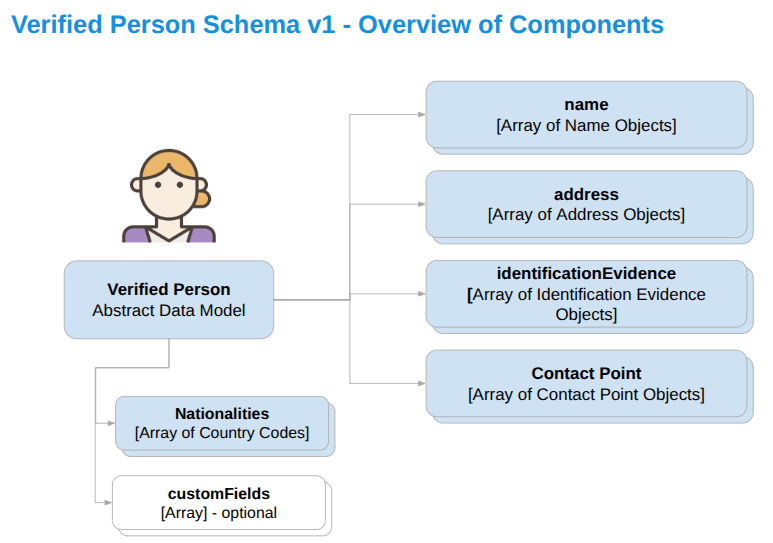
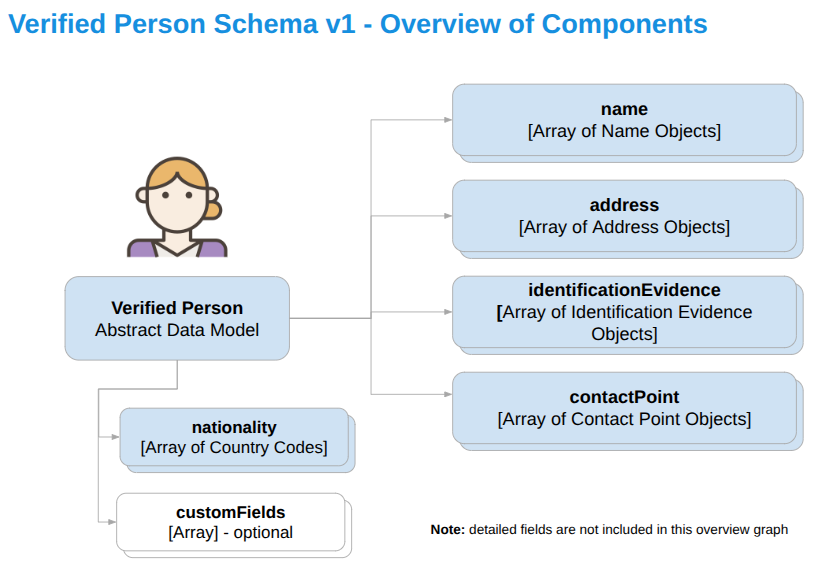
updates for 1.0 version of credential schemas

diff --git a/spec/verified-person.md b/spec/verified-person.md
@@ -1,6 +1,6 @@
 ### Verified Person Schema
 
-July 2025 - **Specification Status:** Working Group draft
+August 2025 - **Specification Status:** Working Group Approved
 
 JSON Schema: [Verified Person Schema](https://github.com/decentralized-identity/credential-schemas/tree/main/dif-draft-schemas/verified-person-schema)
 
@@ -12,12 +12,16 @@ The purpose of this credential schema specification is to define the fields requ
 Use cases: Mainly for financial services, but can also be used in telecommunications, and any sector requiring identity verification for customer onboarding, transaction verification, and regulatory compliance, enabling streamlined and standardized data handling for KYC procedures.
 
 ::: note Verified Person Note
-  The schema excludes assurance levels and the verification process by which the data was obtained.
+  The schema excludes assurance levels and the verification process by which the data was obtained. In addition "trust frameworks" through which the trustworthiness of issuers can be determined are outside the scope of this specification.
 :::
 
 For issuance date and expiration date fields please refer to the verifiable credentials data model [version 1.1](https://www.w3.org/TR/vc-data-model/) or [version 2.0](https://www.w3.org/TR/vc-data-model-2.0/) (we assume the usage of these fields).
 
 #### Verified Person Abstract Data Model
+
+::: note verified person note
+  \* = Required field
+:::
 
 | Property                       | Description                                                                                                                                                                                         | Type & Format      | Definition / Comments                                                                                                               |
 | :----------------------------- | :-------------------------------------------------------------------------------------------------------------------------------------------------------------------------------------------------- | :----------------- | ----------------------------------------------------------------------------------------------------------------------------------- |
@@ -33,12 +37,14 @@ For issuance date and expiration date fields please refer to the verifiable cred
 | identificationEvidence (array) | Evidence of identifiers of the credential subject including government identifiers.                                                                                                                 | Array              | Structured into an array of objects (see the definition of the [Identification Evidence object](#identification-evidence-object) ). |
 | customField (array)            | These are custom fields that can be issued by the credential issuer for any other field not accounted in the main schema. This is a free form array which can be utilized by the credential issuer. | object             | The suggested usage is an array of objects containing "propertyName" and "propertyValue" on each entry.                             |
 
-::: note verified person note
-  \* = Required field
-:::
+
 
 #### Name Object
 The Name Object records the name(s) of the credential subject. The type of name is indicated by the nameType property. There must be at least one entry corresponding to the user's legal name type "legalName". 
+
+::: note name object note
+  \* = Required field
+:::
 
 | Property        | Description                                                                                                                                                                                                                                                                                                                                                 | Type  & Format       | Definition / Comments                          |
 | :-------------- | :---------------------------------------------------------------------------------------------------------------------------------------------------------------------------------------------------------------------------------------------------------------------------------------------------------------------------------------------------------- | :------------------- | :--------------------------------------------- |
@@ -52,13 +58,14 @@ The Name Object records the name(s) of the credential subject. The type of name 
 | startDate       | Start date at which this name was first used. This could be used to keep a history of various names used by the credential subject.                                                                                                                                                                                                                         | string / date-time   | https://schema.org/startDate                   |
 | endDate         | End date at which this name was used. This could be used to keep a history of various names used by the credential subject.                                                                                                                                                                                                                                 | string / date-time   | https://schema.org/endDate                     |
 
-::: note name object note
-  \* = Required field
-:::
 
 #### Identification Evidence Object
 The Identification Evidence Object records the identifier(s) of the credential subject. The type of identifier is indicated by the identifierType property. The object can record both government and non-government identifiers, however there must be at least one entry corresponding to the credential subject's government identifier, this could be any form of government issued identifier such as passport, national id document, tax id, drivers license, or social service number (ssn, social issurance number, or health service id).
 The entry for the government identifier must be the unique government id or national identifier of the credential subject issued by that jurisdiction.
+
+::: note identification evidence object note
+  \* = Required field
+:::
 
 | Property               | Description                                                                                                                                                                                                                                                                                                                                                                  | Type & Format        | Definition / Comments                          |
 | :--------------------- | :--------------------------------------------------------------------------------------------------------------------------------------------------------------------------------------------------------------------------------------------------------------------------------------------------------------------------------------------------------------------------- | :------------------- | :--------------------------------------------- |
@@ -68,9 +75,6 @@ The entry for the government identifier must be the unique government id or nati
 | country                | This is the country of the entity that issues the identifying document. It is a string representing the country in ISO 3166-1 alpha-3 codes (e.g. FRA, USA, CRC).                                                                                                                                                                                                            | string               | https://schema.org/addressCountry              |
 | documentExpirationDate | Date in which the document expires or is subject to renewal                                                                                                                                                                                                                                                                                                                  | string / date-time   | https://schema.org/expires                     |
 
-::: note identification evidence object note
-  \* = Required field
-:::
 
 #### Address Object
 
@@ -78,6 +82,9 @@ The Address Object records the address(es) of the credential subject.The type of
 The object can record a variety of address types, however there must be at least one object entry corresponding to the credential subject's place of birth (identified by the type "placeOfBirth"), the address defines the place where the credential subject is born. For the place of birth, not all fields in the object are required however the country code is mandatory.
 This object is an extension of [schema.org/PostalAddress](https://schema.org/PostalAddress), with additional fields for unstructured addresses and start and end dates in order to accommodate for a historical address record.
 
+::: note address object note
+  \* = Required field
+:::
 
 | Property            | Description                                                                                                                               | Type & Format        | Definition / Comments                          |
 | :------------------ | :---------------------------------------------------------------------------------------------------------------------------------------- | :------------------- | :--------------------------------------------- |
@@ -92,15 +99,15 @@ This object is an extension of [schema.org/PostalAddress](https://schema.org/Pos
 | startDate           | Start date at which this address was first used. This could be used to keep a history of various addresses used by the credential subject | string / date-time   | https://schema.org/startDate                   |
 | endDate             | End date at which this address was last used. This could be used to keep a history of various addresses used by the credential subject    | string / date-time   | https://schema.org/endDate                     |
 
-::: note address object note
-  \* = Required field
-:::
-
 #### Contact Point Object
 The Contact Point Object records the various contact methods of the credential subject (email, phone, others). The type of contact is indicated by the type property. This object is leveraging [schema.org/ContactPoint](https://schema.org/ContactPoint) so any fields in that specification are valid; for simplicity however we are only referencing a subset of the fields in that specification relevant for KYC use cases.
 
 ::: note contact point verification
   It is assumed that the credential issuer will have verified that the credential subject is in possession of the contact point(s), the details of how this verification is done are outside the scope of this specification.
+:::
+
+::: note contact point object note
+  \* = Required field
 :::
 
 | Property   | Description                                                                                                                                                                                                                                    | Type  & Format       | Definition / Comments          |
@@ -111,9 +118,7 @@ The Contact Point Object records the various contact methods of the credential s
 | url        | URL, used for contact points that refer to websites and similar.                                                                                                                                                      | URL                  | https://schema.org/url         |
 | identifier | Identifier used for the contact method (for contact points that are not emails, phone numbers, or URLs).                                                                                                                                       | string               | https://schema.org/identifier  |
 
-::: note contact point object note
-  \* = Required field
-:::
+
 
 #### Mapping of the Verified Person fields to various standards
 

diff --git a/spec/proof-of-age.md b/spec/proof-of-age.md
@@ -1,6 +1,6 @@
 ### Proof of Age Schema
 
-April 2025 - **Specification Status:** editors draft WORK IN PROGRESS
+August 2025 - **Specification Status:** Working Group Approved
 
 #### Purpose: 
 The objective is to generate a general purpose age schema which should allow for both “age estimation” (several assurance methods to be used) as well as “age verification”.
@@ -13,11 +13,17 @@ The objective is to generate a general purpose age schema which should allow for
   - Police clearance / Criminal background or similar use cases in child care contexts
 :::
 
+![proof of age fields overview diagram](images/proof-of-age.png)
+
 #### Proof of Age Abstract Data Model
 
 Main schema for expressing an individual's age. It is composed of a proof of age method field, details on the verification method used, and an age statement field which allows for various schemas for expressing an individual's age. It also includes fields for correctness and level of confidence which are relevant for the age estimation use cases.
 
 For issuance date and expiration date fields please refer to the verifiable credentials data model [version 1.1](https://www.w3.org/TR/vc-data-model/) or [version 2.0](https://www.w3.org/TR/vc-data-model-2.0/) (we assume the usage of these fields).
+
+::: note Proof of Age Required Fields Note
+  \* = Required field
+:::
 
 | Property                 | Description                                                                                                                                                                                  | Type & Format        | Definition / Comments                                                                                          |
 | ------------------------ | -------------------------------------------------------------------------------------------------------------------------------------------------------------------------------------------- | -------------------- | -------------------------------------------------------------------------------------------------------------- |
@@ -28,11 +34,6 @@ For issuance date and expiration date fields please refer to the verifiable cred
 | probabilityOfCorrectness | Probability of correctness of the estimation. Number value between 0 and 100.                                                                                                                | number               |                                                                                                                |
 | levelOfConfidence        | Level of confidence with which the verification has been completed allowed values: "asserted", "basic" (90%+), "standard" (99%+), "enhanced" (99.9%+) , and "strict" (99.99%+).              | string / enumeration | Refer to  [IS0/IEC 27566 – Age assurance systems](https://www.iso.org/standard/88143.html) - for more details. |
 
-
-::: note Key-on-required-or-optional-for-proof-of-age
-  \* = Required field
-:::
-
 #### Age Date Object
 
 Object composed of the following fields related to the invidual's birth date: Year, Month,and Day. The schema can represent an age statement in any of the following ways:
@@ -41,6 +42,9 @@ Object composed of the following fields related to the invidual's birth date: Ye
 - Year and month (date value is null) e.g. Sept-1952
 - Full date e.g: 25-Sept-1952
 
+::: note Proof of Age Date Object Required Fields
+  \* = Required field
+:::
 
 | Property | Description                                                                                                          | Type & Format     | Definition / Comments                          |
 | -------- | -------------------------------------------------------------------------------------------------------------------- | ----------------- | ---------------------------------------------- |
@@ -51,7 +55,11 @@ Object composed of the following fields related to the invidual's birth date: Ye
 
 #### Boolean Age Statement Object
 
-Object used to express the user is over a given age threshold.
+Object used to express the user is over or under a given age threshold. For example: "over 18", or "under 21". 
+
+::: note Proof of Age Statement Object Required Fields
+  \* = Required field
+:::
 
 | Property        | Description                                                                                                                                                                                            | Type & Format     | Definition / Comments                          |
 | --------------- | ------------------------------------------------------------------------------------------------------------------------------------------------------------------------------------------------------ | ----------------- | ---------------------------------------------- |
@@ -61,8 +69,12 @@ Object used to express the user is over a given age threshold.
 
 #### Age Range Statement Object
 
-Object used to indicate a user is in a given in age range for example: between "18 and 25 years of age", or between "40 and 65 years of age".
+Object used to indicate a user is in a given in age range for example: between "18 and 25 years of age", or between "40 and 65 years of age". The age values in the range are inclusive of the minimumAge and maximumAge values.
  
+ ::: note Proof of Age Range Statement Required Fields
+  \* = Required field
+:::
+
 | Property   | Description                                      | Type & Format     | Definition / Comments                          |
 | ---------- | ------------------------------------------------ | ----------------- | ---------------------------------------------- |
 | type \*    | type of object schema, expected value "AgeRange" | string / constant | https://www.w3.org/TR/vc-data-model-2.0/#types |
@@ -77,7 +89,8 @@ Object used to indicate a user is in a given in age range for example: between "
 
 #### Sample implementations of this schema standard
 
-- Privado ID (JSON-LD): pending
+- DIF: [Proof of Age Schema](https://github.com/decentralized-identity/credential-schemas/tree/main/dif-draft-schemas/proof-of-age-schema)
+
 
 ::: todo add links to schema implementations
   Need to add links to additional schema implementations in JSON-LD, SD-JWT and others

diff --git a/dif-draft-schemas/proof-of-age-schema/README.md b/dif-draft-schemas/proof-of-age-schema/README.md
@@ -1,0 +1,36 @@
+# Proof of Age Schema
+
+This repository stores the JSON implementation of the `Proof of Age` schema. The schema is defined in the `ProofOfAge.schema.json` file and follows the JSON Schema standard.
+
+## Overview
+The `Proof of Age` schema defines general purpose age schema which should allow for both “age estimation” (several assurance methods to be used) as well as “age verification”. See the [schema specification](https://identity.foundation/credential-schemas/#proof-of-age-schema) for more details.
+
+## Specification Status
+- **Status**: Working Group Approved (August 2025)
+- **Latest Draft**: [identity.foundation/credential-schemas/#proof-of-age-schema](https://identity.foundation/credential-schemas/#proof-of-age-schema)
+- **Ratified Versions**: None
+
+
+## TAGS
+
+- `Proof of Age`
+- `Age Verification`
+
+## License
+Except where otherwise noted, this work by the Decentralized Identity Foundation is licensed under [CC BY 4.0](https://creativecommons.org/licenses/by/4.0/).
+
+## Abstract
+This specification defines multiple standards for common use case verifiable credentials including KYC (basic person), AML, among others.
+
+## Status of This Document
+This is a draft specification being developed within the Decentralized Identity Foundation (DIF). Design work is ongoing, and participants are encouraged to open issues or otherwise contribute at the DIF-hosted GitHub repository, whether as input to stable versions or as recommendations for future versions.
+
+## Schema Details
+- **File**: `ProofOfAge.schema.json`
+- **Standard**: Verifiable Credential 2.0 in JSON schema format (https://www.w3.org/2022/credentials/v2/json-schema-credential-schema.json)
+- **Purpose**: To define the fields required to prove an individual's age.
+- **Use cases**: Mainly for financial services, but also applicable in telecommunications and any sector requiring identity verification.
+
+
+## Patent Policy
+The Decentralized Identity Foundation has adopted the W3C Patent Policy (2004).

diff --git a/dif-draft-schemas/verified-person-schema/README.md b/dif-draft-schemas/verified-person-schema/README.md
@@ -18,7 +18,7 @@ The `VerifiedPersonSchema` defines the structure for a verifiable credential use
   - `customField`: A free-form array to capture additional fields not covered by the main schema.
 
 ## Specification Status
-- **Status**: Working Group Draft (July 2025)
+- **Status**: Working Group Approved (August 2025)
 - **Latest Draft**: [identity.foundation/credential-schemas/#basic-person-schema](https://identity.foundation/credential-schemas/#verified-person-schema)
 - **Ratified Versions**: None
 

diff --git a/spec/spec.md b/spec/spec.md
@@ -1,6 +1,6 @@
-# credential-schemas 0.1 Working Group Draft
+# credential-schemas 1.0 Working Group Approved Spec
 
-**Specification Status:** Working Group draft (October 2024)
+**Specification Status:** Working Group Approved Spec (August 2025)
 
 **Latest Draft:**
 [identity.foundation/credential-schemas](https://identity.foundation/credential-schemas)
